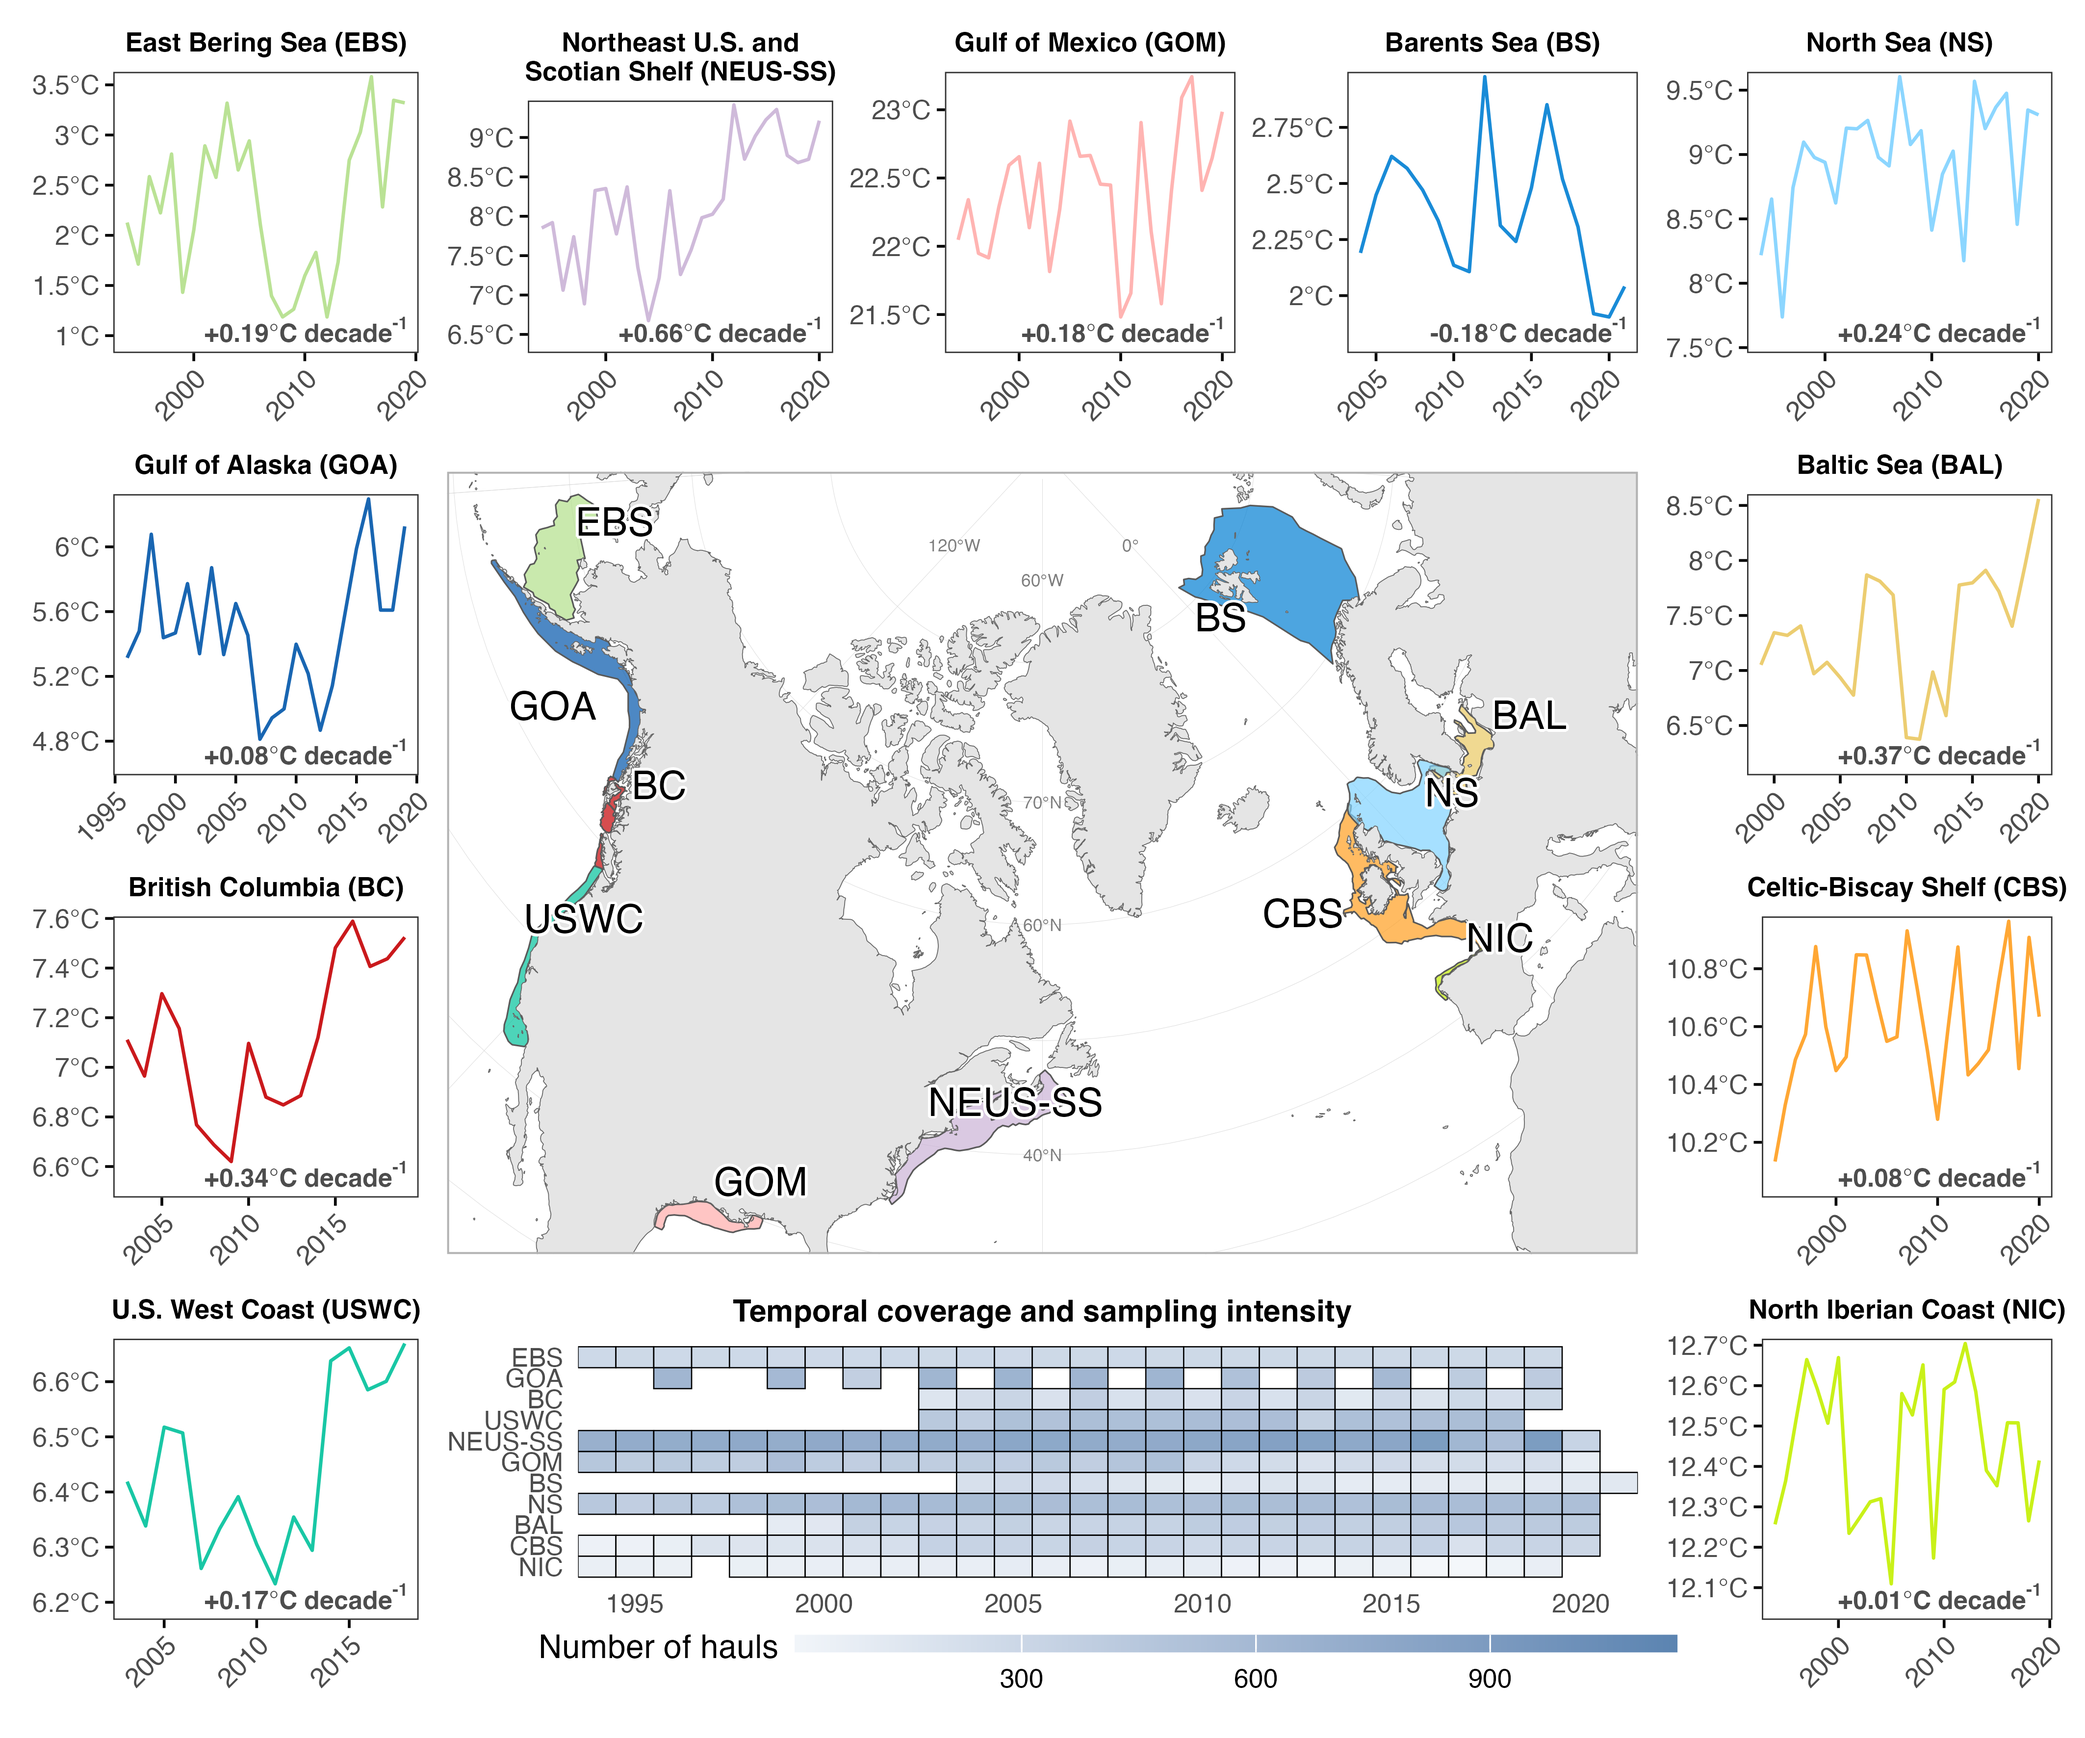
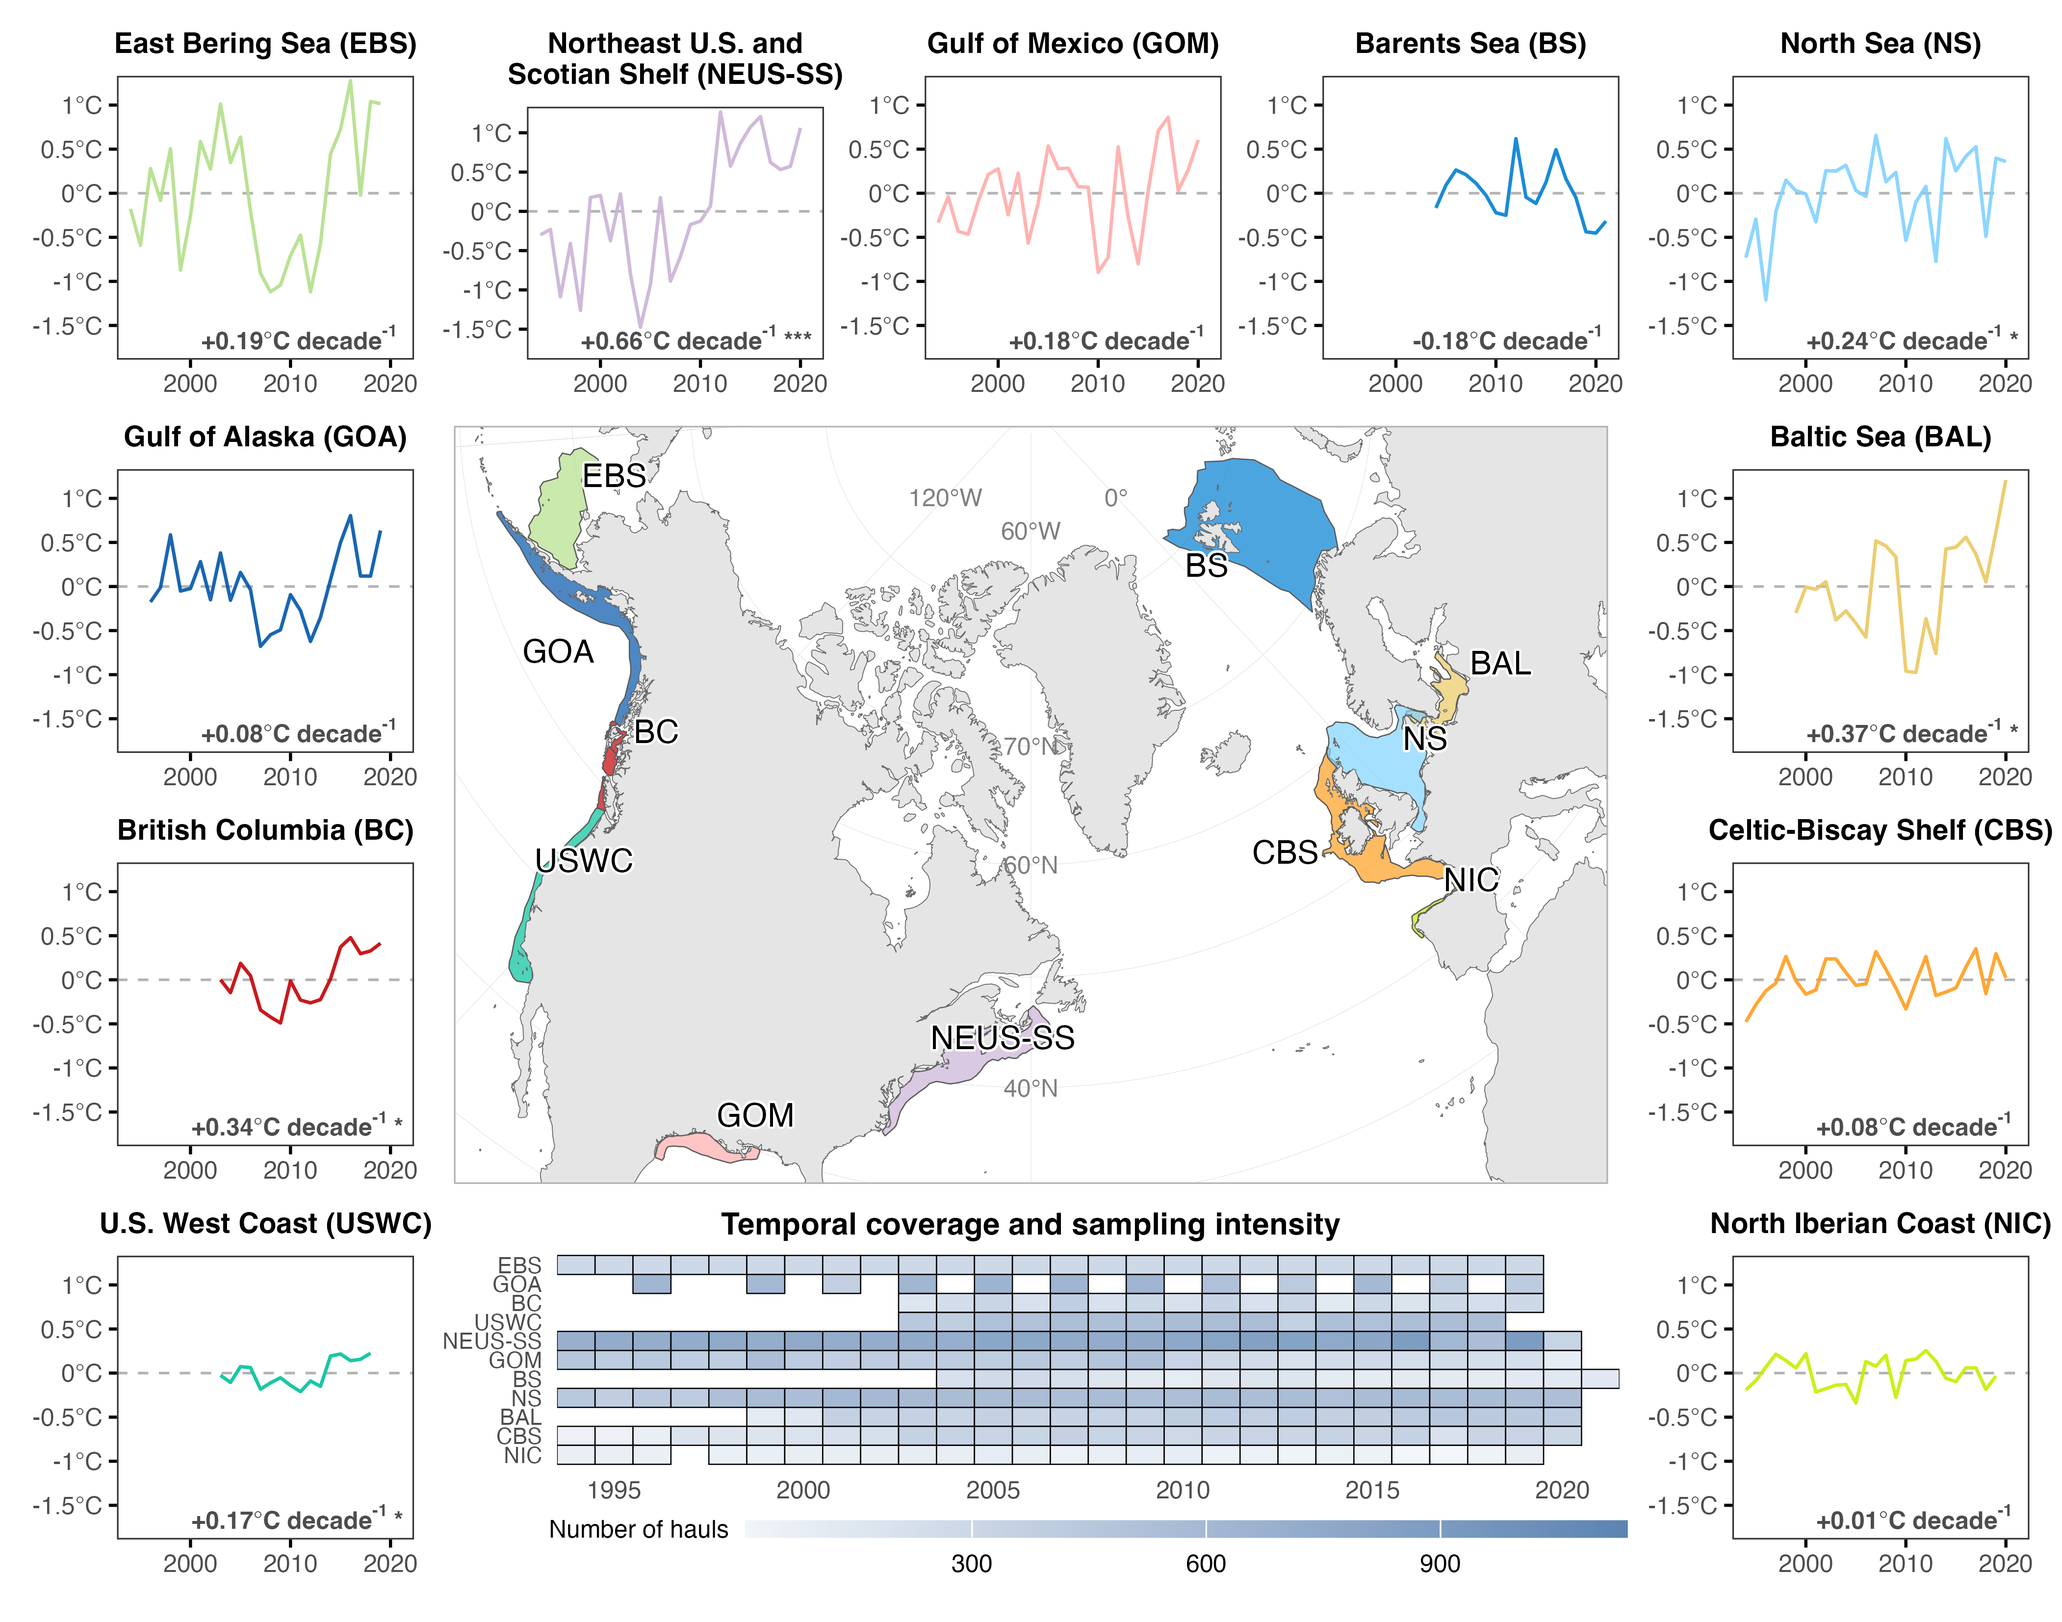
added analysis for revision1

diff --git a/output/values/bayesian_trend_analysis/species_slopes.tex b/output/values/bayesian_trend_analysis/species_slopes.tex
@@ -5,7 +5,7 @@
 \newcommand{\MinLatSpecies}{\textit{Atheresthes stomias}}
 \newcommand{\MinLatRegion}{U.S. West Coast}
 \newcommand{\MinLatMedian}{-106.7}
-\newcommand{\MinLatCI}{[95\% CI: -138.5, -76.8]}
+\newcommand{\MinLatCI}{[95\% CI: -138.4, -76.8]}
 \newcommand{\MaxLonSpecies}{\textit{Harengula jaguana}}
 \newcommand{\MaxLonRegion}{Gulf of Mexico}
 \newcommand{\MaxLonMedian}{115.9}
@@ -26,7 +26,7 @@
 \newcommand{\MaxThermalRegion}{Northeast U.S. and Scotian Shelf}
 \newcommand{\MaxThermalMedian}{1.1}
 \newcommand{\MaxThermalCI}{[95\% CI: 0.9, 1.3]}
-\newcommand{\MinThermalSpecies}{\textit{Leptoclinus maculatus}}
-\newcommand{\MinThermalRegion}{Barents Sea}
+\newcommand{\MinThermalSpecies}{\textit{Atheresthes stomias}}
+\newcommand{\MinThermalRegion}{Eastern Bering Sea}
 \newcommand{\MinThermalMedian}{-0.2}
-\newcommand{\MinThermalCI}{[95\% CI: -0.4, 0.0]}
+\newcommand{\MinThermalCI}{[95\% CI: -0.3, -0.0]}

diff --git a/output/values/bayesian_trend_analysis/temp_correlations.tex b/output/values/bayesian_trend_analysis/temp_correlations.tex
@@ -1,0 +1,12 @@
+\newcommand{\CorLatR}{-0.38}
+\newcommand{\CorLatP}{0.253}
+\newcommand{\CorLatCI}{[95\% CI: -0.80, 0.29]}
+\newcommand{\CorLonR}{-0.10}
+\newcommand{\CorLonP}{0.769}
+\newcommand{\CorLonCI}{[95\% CI: -0.66, 0.53]}
+\newcommand{\CorDepthR}{0.49}
+\newcommand{\CorDepthP}{0.122}
+\newcommand{\CorDepthCI}{[95\% CI: -0.15, 0.84]}
+\newcommand{\CorThermalR}{0.92}
+\newcommand{\CorThermalP}{$<$0.001}
+\newcommand{\CorThermalCI}{[95\% CI: 0.72, 0.98]}

diff --git a/output/values/bayesian_trend_analysis/species_magnitude.tex b/output/values/bayesian_trend_analysis/species_magnitude.tex
@@ -1,0 +1,6 @@
+\newcommand{\DepthMedAbs}{1.2}
+\newcommand{\DepthSignedRange}{[-7.6, 10.4]}
+\newcommand{\LatMedAbs}{13.3}
+\newcommand{\LatSignedRange}{[-66.7, 87.4]}
+\newcommand{\LonMedAbs}{12.3}
+\newcommand{\LonSignedRange}{[-60.6, 49.4]}
